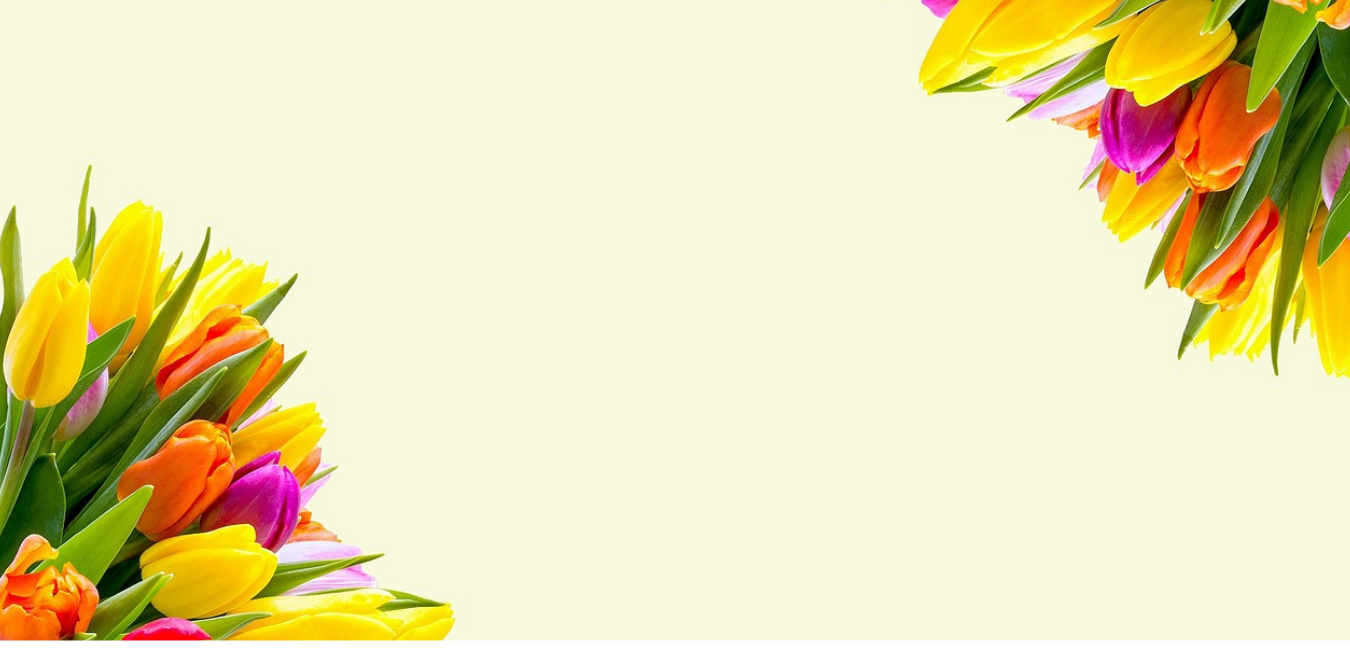
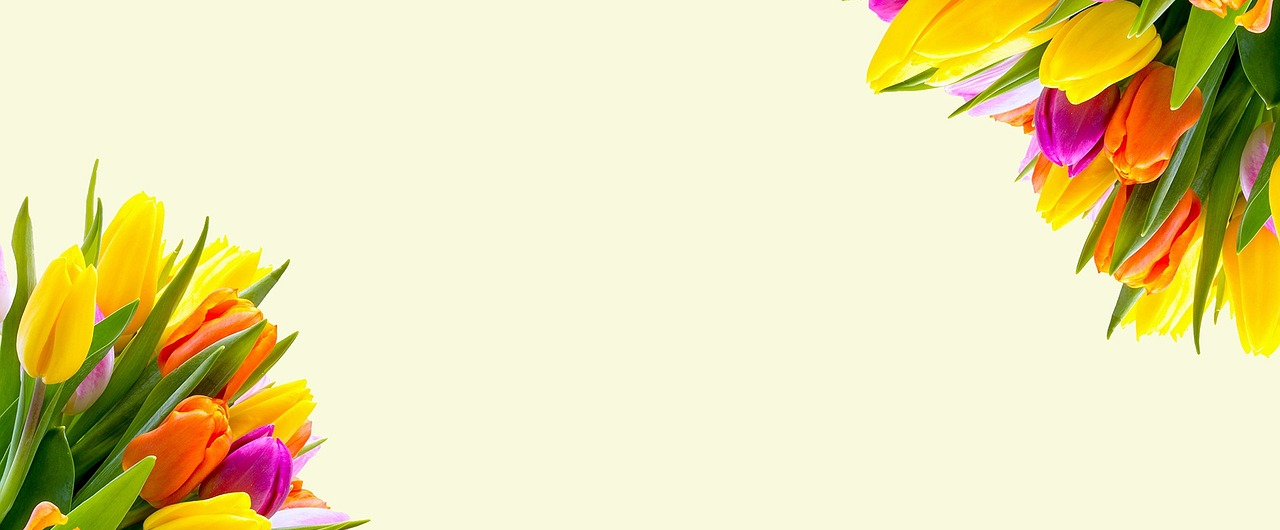
Corrección de home

Changed region(s): [[0.0, 0.2717, 1.0, 1.0], [0.6562, 0.0, 1.0, 0.6943]]

diff --git a/index.html b/index.html
@@ -151,7 +151,7 @@
                 </ol>
                 <div class="carousel-inner" role="listbox">
                   <div class="carousel-item active">
-                    <img src="img/slider/bg1.png" alt="" style="height: 450px;">
+                    <img src="img/slider/bg1.png" alt=""">
                     <div class="carousel-caption">
                       <h3 class="slide-title animated fadeInDown" ><span>Regala</span> Momentos</h3>
                       <h5 class="slide-text animated fadeIn" >Lorem ipsum dolor sit amet, consectetuer adipiscing elit<br> Curabitur ultricies nisi Nam eget dui. Etiam rhoncus</h5>
@@ -160,7 +160,7 @@
                     </div>
                   </div>
                   <div class="carousel-item">
-                    <img src="img/slider/bg4.png" alt="" style="height: 450px;">
+                    <img src="img/slider/bg4.png" alt="" >
                     <div class="carousel-caption">
                       <h3 class="slide-title animated fadeInDown" style="color: grey;"><span>Regala</span> Momentos</h3>
                       <h5 class="slide-text animated fadeIn" style="color: grey;">Lorem ipsum dolor sit amet, consectetuer adipiscing elit<br> Curabitur ultricies nisi Nam eget dui. Etiam rhoncus</h5>
@@ -168,7 +168,7 @@
                     </div>
                   </div>
                   <div class="carousel-item">
-                    <img src="img/slider/bg5.png" alt="" style="height: 450px;">
+                    <img src="img/slider/bg5.png" alt="">
                     <div class="carousel-caption">
                       <h3 class="slide-title animated fadeInDown"><span>Regala</span> Momentos</h3>
                       <h5 class="slide-text animated fadeIn">Lorem ipsum dolor sit amet, consectetuer adipiscing elit<br> Curabitur ultricies nisi Nam eget dui. Etiam rhoncus</h5>
